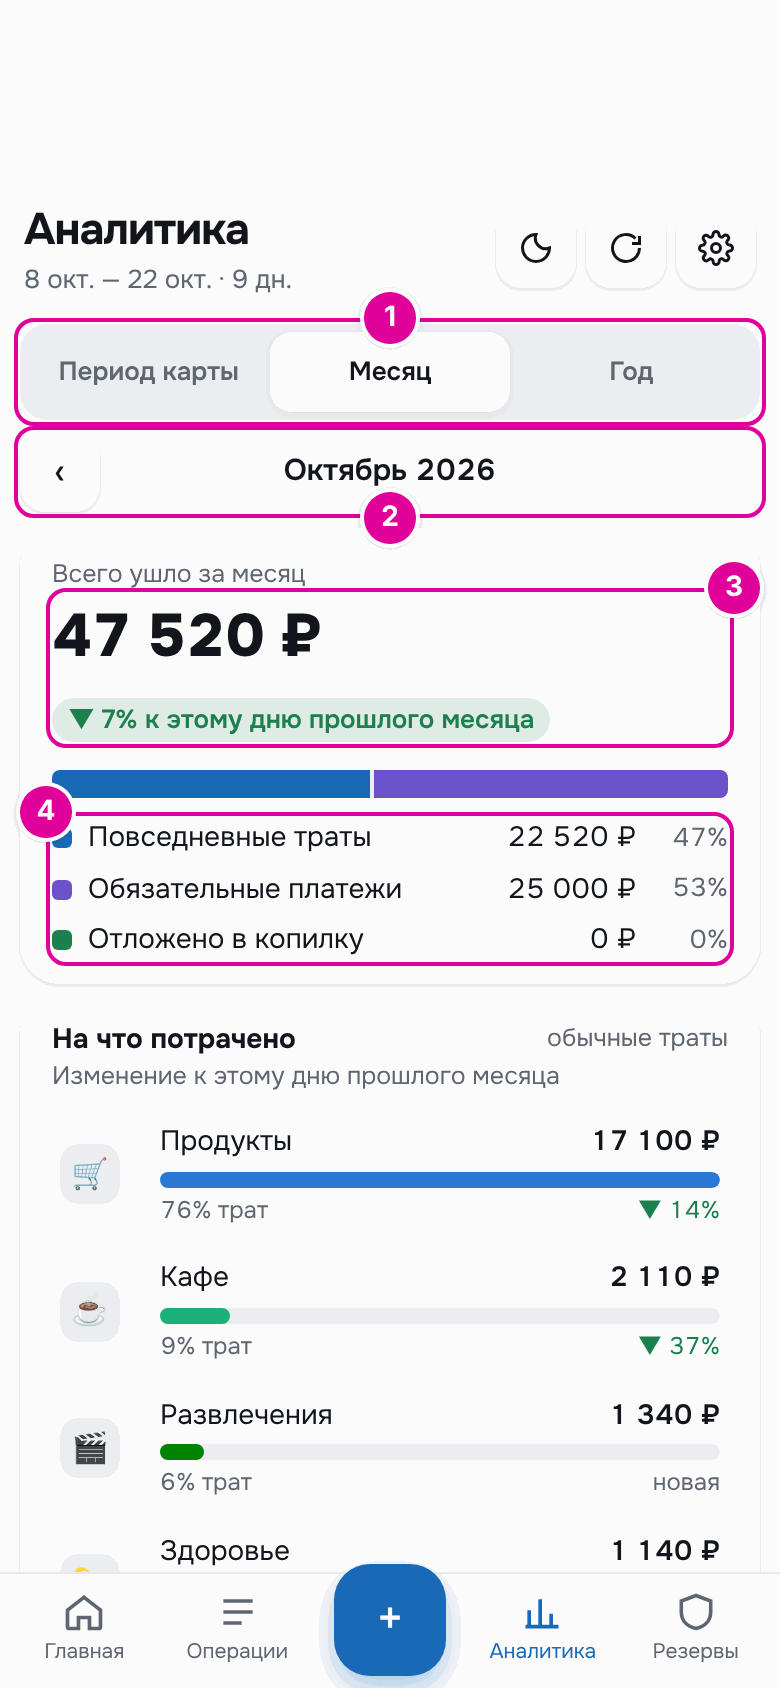
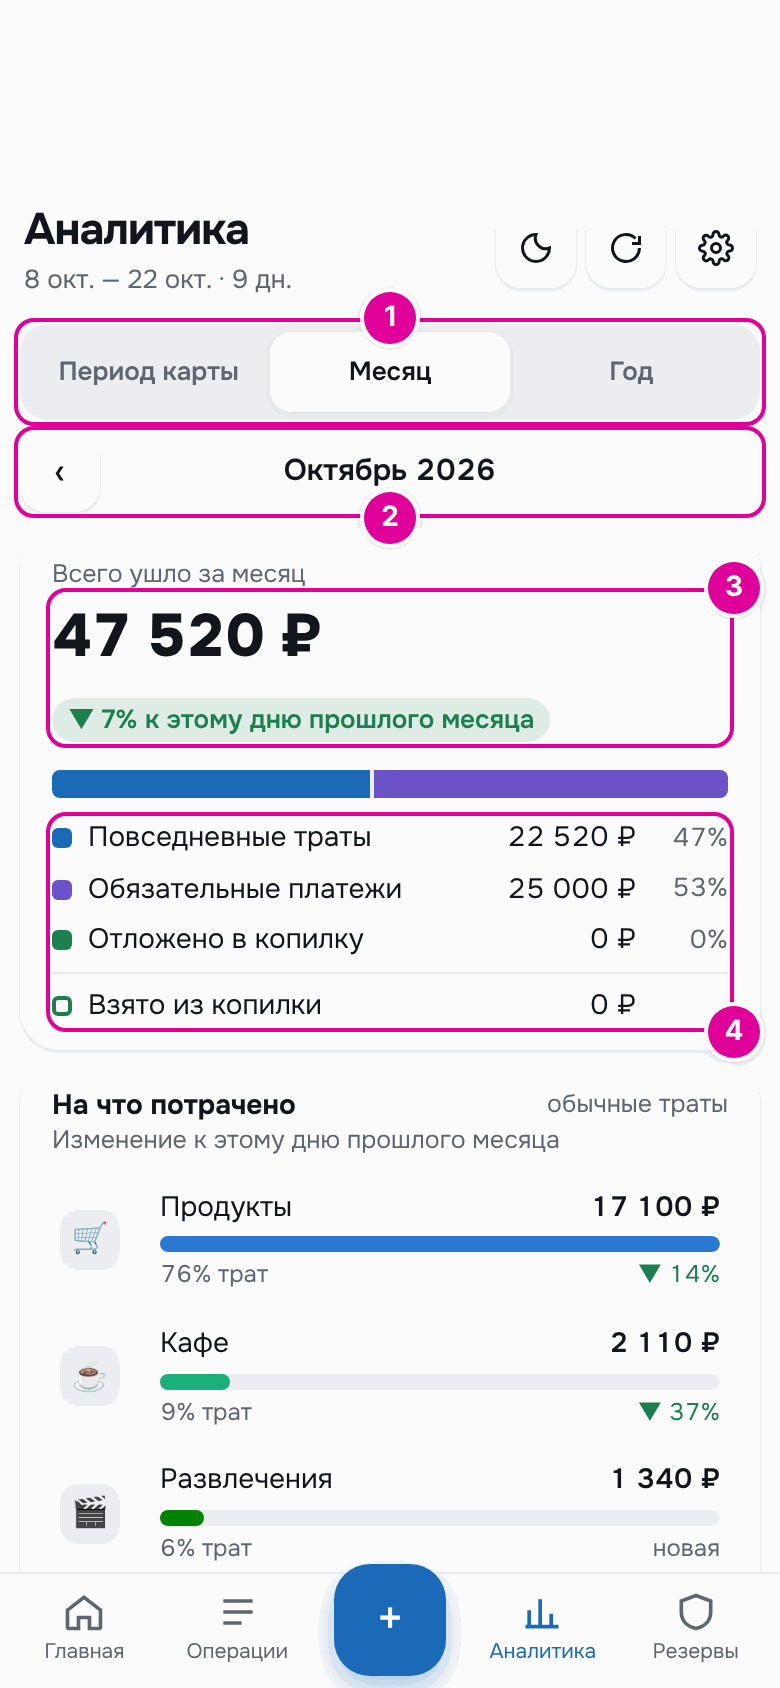
Аналитика: строка «Взято из копилки»
Под разбивкой «Всего ушло» появилась строка «Взято из копилки»: сколько
денег ушло из копилки за выбранный месяц, период или год — «На карту»,
«Снять», траты и погашения кредитки из копилки. Это не часть итога и не
доля в процентах (показывает, откуда взяли деньги, а не куда они ушли),
поэтому строка отделена чертой, без процента, с полым значком цвета
копилки. API /api/analytics отдаёт сумму в поле piggy_taken.

Та же строка добавлена на лист «Графики» в Excel под «Итого», вне
круговой диаграммы. Инструкция (глава 11) и её скриншот обновлены.

Claude-Session: https://claude.ai/code/session_014Wv2xQEtsiEyZefywxmD7z

diff --git a/app/static/analytics-ui.js b/app/static/analytics-ui.js
@@ -75,7 +75,9 @@
     $("analyticsStack").innerHTML = t.total > 0
       ? KINDS.filter(k => t[k.key] > 0).map(k => `<span style="flex:${t[k.key]};background:${k.color}"></span>`).join("")
       : "";
-    $("analyticsKinds").innerHTML = KINDS.map(k => `<div class="analytics-kind"><i style="background:${k.color}"></i><span>${k.title}</span><span class="num">${rub(t[k.key])}</span><span class="pct num">${t.total > 0 ? Math.round(t[k.key] / t.total * 100) : 0}%</span></div>`).join("");
+    $("analyticsKinds").innerHTML = KINDS.map(k => `<div class="analytics-kind"><i style="background:${k.color}"></i><span>${k.title}</span><span class="num">${rub(t[k.key])}</span><span class="pct num">${t.total > 0 ? Math.round(t[k.key] / t.total * 100) : 0}%</span></div>`).join("")
+      // Not a share of the total: it says where money came from, not where it went.
+      + `<div class="analytics-kind analytics-kind-taken"><i></i><span>Взято из копилки</span><span class="num">${rub(data.piggy_taken)}</span><span class="pct"></span></div>`;
   }
 
   function renderCategories() {

diff --git a/app/static/styles.css b/app/static/styles.css
@@ -536,6 +536,8 @@ html,body{width:100%;max-width:100%;overflow-x:hidden}
 .analytics-kind{display:grid;grid-template-columns:10px 1fr auto auto;gap:8px;align-items:center;font-size:14px}
 .analytics-kind i,.analytics-legend i{width:10px;height:10px;border-radius:3px;display:inline-block}
 .analytics-kind .pct{color:var(--muted);font-size:13px;min-width:38px;text-align:right}
+.analytics-kind-taken{border-top:1px solid var(--line);padding-top:6px}
+.analytics-kind-taken i{box-sizing:border-box;border:2px solid var(--kind-piggy)}
 .analytics-cats{display:grid;gap:8px;padding-bottom:6px}
 .analytics-cat{display:grid;grid-template-columns:38px minmax(0,1fr);gap:12px;align-items:center;width:100%;border:0;background:transparent;text-align:left;padding:4px;border-radius:10px;cursor:pointer}
 .analytics-cat-item.open{background:var(--surface-2);border-radius:10px}

diff --git a/app/analytics.py b/app/analytics.py
@@ -74,6 +74,17 @@ def _piggy_deposits(con, uid: int, start: date, end: date) -> list[dict]:
     ).fetchall()]
 
 
+def _piggy_taken(con, uid: int, start: date, end: date) -> float:
+    """Everything taken out of the piggy bank: to the card, «Снять», expenses
+    and credit card repayments paid from it.  Not a part of the total: it
+    says where money came from, not where it went."""
+    return amount(sum(cents(r["amount"]) for r in con.execute(
+        "SELECT amount FROM piggy_bank_movements "
+        "WHERE user_id=? AND direction='withdraw' AND movement_date BETWEEN ? AND ?",
+        (uid, start.isoformat(), end.isoformat()),
+    )))
+
+
 def _kinds(expenses: list[dict], deposits: list[dict]) -> dict:
     daily = sum(cents(e["amount"]) for e in expenses if e["bill_rule_id"] is None)
     bills = sum(cents(e["amount"]) for e in expenses if e["bill_rule_id"] is not None)
@@ -270,6 +281,7 @@ def summary(uid: int, mode: Mode, anchor: date, today: date | None = None) -> di
     with connect() as con:
         expenses = _expenses(con, uid, start, end)
         deposits = _piggy_deposits(con, uid, start, end)
+        piggy_taken = _piggy_taken(con, uid, start, end)
         prev_expenses = _expenses(con, uid, prev_start, compare_end)
         prev_deposits = _piggy_deposits(con, uid, prev_start, compare_end)
     kinds = _kinds(expenses, deposits)
@@ -290,6 +302,7 @@ def summary(uid: int, mode: Mode, anchor: date, today: date | None = None) -> di
         "today": today.isoformat(),
         "totals": kinds,
         "previous_totals": previous,
+        "piggy_taken": piggy_taken,
         "categories": _categories(expenses, prev_expenses),
         "days": [] if mode == "year" else _days(expenses, start, end),
         "daily_limit": _daily_limit(uid, start, end, today) if mode == "period" else None,

diff --git a/tests/test_analytics.py b/tests/test_analytics.py
@@ -51,6 +51,8 @@ def test_month_summary_splits_spending_by_destination_and_category(client):
     assert data['label'] == 'Сентябрь 2026'
     assert (data['start'], data['end']) == ('2026-09-01', '2026-09-30')
     assert data['totals'] == {'daily': 1650.5, 'bills': 3000.0, 'piggy': 700.0, 'total': 5350.5}
+    # Taken from the piggy bank: shown, but not subtracted from the total.
+    assert data['piggy_taken'] == 200
     # September is in progress (today is the 15th): August is compared up to the 15th.
     assert data['previous_partial'] is True
     assert data['previous_totals']['daily'] == 0
@@ -73,6 +75,7 @@ def test_month_summary_splits_spending_by_destination_and_category(client):
 def test_previous_month_can_step_forward_and_future_anchor_is_clamped(client):
     data = client.get('/api/analytics', params={'mode': 'month', 'anchor': '2026-08-01'}).json()
     assert data['totals']['daily'] == 500
+    assert data['piggy_taken'] == 0
     assert data['previous_partial'] is False
     assert data['next_anchor'] == '2026-09-01'
     future = client.get('/api/analytics', params={'mode': 'month', 'anchor': '2027-01-01'}).json()
@@ -85,6 +88,7 @@ def test_year_summary_has_twelve_months_and_no_days(client):
     assert data['days'] == []
     assert len(data['months']) == 12
     assert data['totals']['piggy'] == 750
+    assert data['piggy_taken'] == 200
     # Unpaid months before the current card period are history, not plans.
     rent = data['bills'][0]
     assert (rent['count'], rent['paid_count'], rent['paid_amount'], rent['due_amount']) == (4, 1, 3000, 9000)

diff --git a/app/excel_export.py b/app/excel_export.py
@@ -225,6 +225,9 @@ def build_charts_sheet(wb: Workbook, user_id: int, currency: str, today) -> None
     ws.cell(row=end, column=1, value="Итого").font = TOTAL_FONT
     ws.cell(row=end, column=2, value=total).number_format = MONEY_FORMAT
     ws.cell(row=end, column=2).font = TOTAL_FONT
+    # Below the total and outside the pie: not a part of it.
+    ws.cell(row=end + 1, column=1, value="Взято из копилки")
+    ws.cell(row=end + 1, column=2, value=data["piggy_taken"]).number_format = MONEY_FORMAT
     if total:
         pie = PieChart()
         pie.title = "Куда ушли деньги"
@@ -244,9 +247,9 @@ def build_charts_sheet(wb: Workbook, user_id: int, currency: str, today) -> None
         pie.legend.position = "r"
         _tidy(pie)
         ws.add_chart(pie, f"{CHART_COLUMN}{row}")
-        row = max(end + 2, row + _chart_rows(pie))
+        row = max(end + 3, row + _chart_rows(pie))
     else:
-        row = end + 2
+        row = end + 3
 
     # 2. What it was spent on.
     ws.cell(row=row, column=1, value="На что потрачено (обычные траты)").font = SECTION_FONT

diff --git a/tests/test_excel_export.py b/tests/test_excel_export.py
@@ -56,6 +56,7 @@ def test_excel_export_contains_operations_pivot_and_piggy(tmp_path, monkeypatch)
     values = [row for row in charts.iter_rows(values_only=True) if any(v is not None for v in row)]
     kinds = {r[0]: r[1] for r in values}
     assert (kinds["Повседневные траты"], kinds["Обязательные платежи"], kinds["Отложено в копилку"]) == (700, 0, 1000)
+    assert (kinds["Итого"], kinds["Взято из копилки"]) == (1700, 400)
     assert any(r[0] == "☕ Тестовая кофейня" and r[1] == 700 and r[3] == 300 for r in values)
     assert any(r[0] == "сен 26" and r[1] == 700 and r[3] == 1000 for r in values)
     # Months before the first record are left out of «По месяцам».

diff --git a/docs/guide/11-analytics.md b/docs/guide/11-analytics.md
@@ -10,14 +10,14 @@
 
 ## Пошагово: выбрать период
 
-![Верх раздела «Аналитика». Отмечены переключатель «Период карты», «Месяц», «Год», стрелки со словами «Октябрь 2026», итог «Всего ушло за месяц» 47 520 ₽ со сравнением «▼ 7% к этому дню прошлого месяца» и разбивка по видам расходов](images/11-analytics-total.png)
+![Верх раздела «Аналитика». Отмечены переключатель «Период карты», «Месяц», «Год», стрелки со словами «Октябрь 2026», итог «Всего ушло за месяц» 47 520 ₽ со сравнением «▼ 7% к этому дню прошлого месяца», разбивка по видам расходов и строка «Взято из копилки»](images/11-analytics-total.png)
 
 *Номера совпадают с пунктами.*
 
 1. Выберите, за что смотреть: «Период карты» (от выплаты до выплаты, только в режиме «Зарплата и аванс»), «Месяц» или «Год».
 2. Стрелки ‹ и › листают на период назад и вперёд. В будущее листать нельзя.
 3. «Всего ушло за месяц» — все деньги, которые ушли за этот срок. Рядом — сравнение с прошлым: зелёная стрелка вниз значит, что ушло меньше, красная вверх — больше.
-4. Цветная полоса и строки под ней делят итог на три части: «Повседневные траты», «Обязательные платежи», «Отложено в копилку». Справа — сумма и доля в процентах.
+4. Цветная полоса и строки под ней делят итог на три части: «Повседневные траты», «Обязательные платежи», «Отложено в копилку». Справа — сумма и доля в процентах. Ниже, под чертой, — «Взято из копилки»: сколько денег за этот срок ушло из копилки. Эта строка не входит в итог и не имеет доли.
 
 ## На что потрачено
 
@@ -77,7 +77,8 @@
 
 - «Повседневные траты» 22 520 ₽ — 47 %;
 - «Обязательные платежи» 25 000 ₽ — 53 %, это аренда;
-- «Отложено в копилку» 0 ₽.
+- «Отложено в копилку» 0 ₽;
+- «Взято из копилки» 0 ₽: в октябре из копилки ничего не брали.
 
 Сравнение «▼ 7% к этому дню прошлого месяца»: за первые 14 дней октября ушло на 7 % меньше, чем за первые 14 дней сентября.
 
@@ -95,6 +96,7 @@
 
 - Траты кредиткой учитываются в аналитике в день покупки, со своей категорией. Погашение кредитки — нет, чтобы не посчитать покупку дважды.
 - «Отложено в копилку» — все пополнения копилки за срок: и остаток дня, и деньги, положенные кнопкой «Внести отдельно».
+- «Взято из копилки» — всё, что ушло из копилки за срок: «На карту», «Снять», траты и погашения кредитки «Из копилки». Эта сумма не входит в «Всего ушло»: она показывает, откуда взяли деньги, а не куда они ушли.
 - Если в прошлом месяце не было трат, сравнения не будет.
 
 ---
